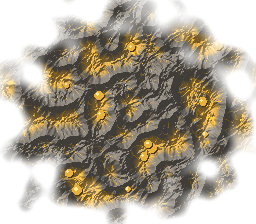
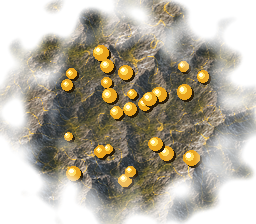
Gouache: gold shining out of the mountain range it belongs to
The gold tile is painted on a crop of the theme's own mountain texture, so it
matches the range, with gleaming veins and bright nuggets with white
highlights; its glints are bigger and flash more often.

Claude-Session: https://claude.ai/code/session_01VGBb6mKQ3kspS5r6m29MiP

diff --git a/tools/hdart/resource_patches.py b/tools/hdart/resource_patches.py
@@ -43,6 +43,32 @@ def ridged(rng, ranges=2.0):
     return (h - h.min()) / (h.max() - h.min())
 
 
+def gold_on(texture_path, rng):
+    """Gold seen from above on a crop of the theme's own mountain texture: glinting veins along the ridges and bright
+    nuggets with white highlights, so it shines out of the range it belongs to."""
+    tex = Image.open(texture_path).convert('RGB')
+    x0, y0 = rng.integers(0, tex.width - W), rng.integers(0, tex.height - H)
+    base = np.asarray(tex.crop((x0, y0, x0 + W, y0 + H)), np.float32)
+    luma = base @ np.array([0.299, 0.587, 0.114], np.float32)
+    # veins: winding seams, strongest on the lit (upper-left facing) rock
+    seam = periodic_noise(rng, 256, 9)[:H, :W]
+    vein = np.clip((0.22 - np.abs(seam)) / 0.22, 0, 1) ** 1.5 * np.clip((luma - 60) / 80, 0.3, 1)
+    metal = np.array([255, 196, 52], np.float32)[None, None] * (0.75 + 0.45 * np.clip(luma / 200, 0, 1))[..., None]
+    col = base * (1 - vein[..., None] * 0.9) + metal * vein[..., None] * 0.9
+    img = Image.fromarray(col.clip(0, 255).astype(np.uint8))
+    d = ImageDraw.Draw(img)
+    cx, cy = W / 2, H / 2
+    for _ in range(26):
+        a, r = rng.uniform(0, 2 * np.pi), rng.uniform(0, 0.36) * W
+        x, y = cx + np.cos(a) * r, cy + np.sin(a) * r * 0.85
+        n = rng.uniform(4, 8)
+        d.ellipse([x - n + 2, y - n + 2, x + n + 2, y + n + 2], fill=(40, 28, 10))
+        d.ellipse([x - n, y - n, x + n, y + n], fill=(232, 164, 30))
+        d.ellipse([x - n * 0.75, y - n * 0.75, x + n * 0.25, y + n * 0.25], fill=(255, 220, 90))
+        d.ellipse([x - n * 0.55, y - n * 0.55, x - n * 0.1, y - n * 0.1], fill=(255, 252, 226))
+    return img, soft_mask(rng, 0.35)
+
+
 def gold(rng):
     h = ridged(rng, 3)[:H, :W]
     shade = light(h, 140)
@@ -124,8 +150,10 @@ def main():
     if len(args) != 1:
         sys.exit(__doc__)
     folder = args[0]
+    mountains = os.path.join(folder, 'ground', 'mountains.png')
     for k in range(2):
-        save(*gold(np.random.default_rng(seed * 10 + k)), os.path.join(folder, 'mountains_gold', f'{k}.png'))
+        g = gold_on(mountains, np.random.default_rng(seed * 10 + k)) if os.path.exists(mountains) else gold(np.random.default_rng(seed * 10 + k))
+        save(*g, os.path.join(folder, 'mountains_gold', f'{k}.png'))
         save(*coal(np.random.default_rng(seed * 20 + k)), os.path.join(folder, 'hills_coal', f'{k}.png'))
     save(*gems(np.random.default_rng(seed * 30)), os.path.join(folder, 'jungle_gems', '0.png'))
     print('resource patches written to', folder)

diff --git a/src/Graphics/GBitmap.cs b/src/Graphics/GBitmap.cs
@@ -1088,11 +1088,11 @@ namespace OpenCivOne.Graphics
 					// treasure twinkles
 					for (int p = 0; p < PuffsPerSource; p++)
 					{
-						float t = ((phase * 6f) + SmokeHash01(src.Seed, p + 30)) % 1f;
+						float t = ((phase * (src.Kind == 1 ? 9f : 6f)) + SmokeHash01(src.Seed, p + 30)) % 1f;
 						float flash = MathF.Max(0f, 1f - (MathF.Abs(t - 0.5f) * 4.5f));
 						float gx = src.X + ((SmokeHash01(src.Seed, p + 40) - 0.5f) * 0.5f * c);
 						float gy = src.Y + ((SmokeHash01(src.Seed, p + 50) - 0.5f) * 0.36f * c);
-						float gr = (0.17f + (0.1f * SmokeHash01(src.Seed, p + 60))) * c * (0.5f + (0.5f * flash));
+						float gr = (0.2f + (0.12f * SmokeHash01(src.Seed, p + 60))) * c * (src.Kind == 1 ? 1.25f : 1f) * (0.5f + (0.5f * flash));
 						(float cr, float cg, float cb) = src.Kind == 1 ? (255f, 255f, 236f)
 							: (p % 3) switch { 0 => (200f, 240f, 255f), 1 => (255f, 210f, 240f), _ => (230f, 255f, 230f) };
 						puffs[idx++] = new SmokePuff(gx, gy, gr, cr, cg, cb, flash, true);
